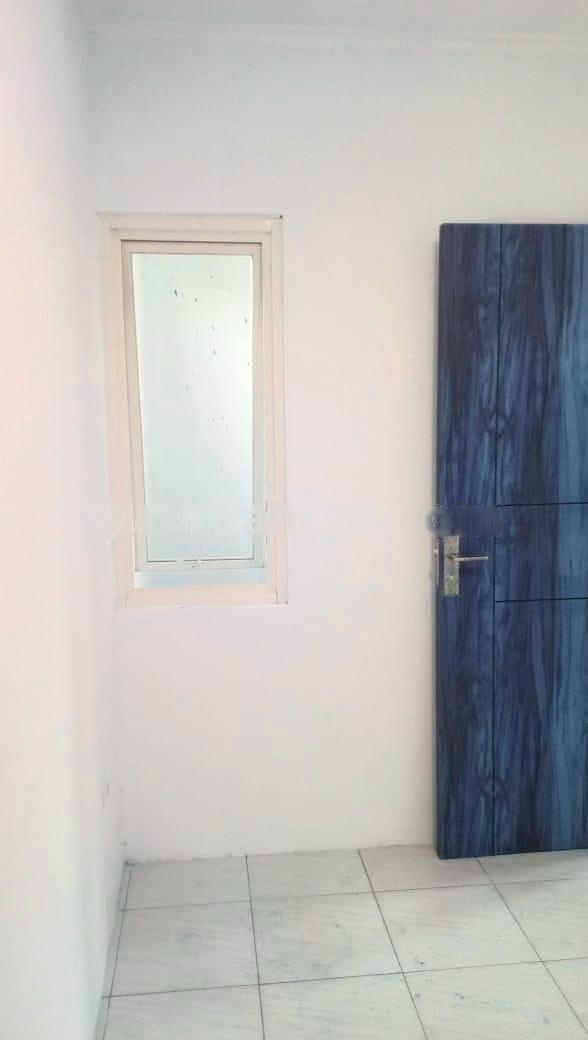
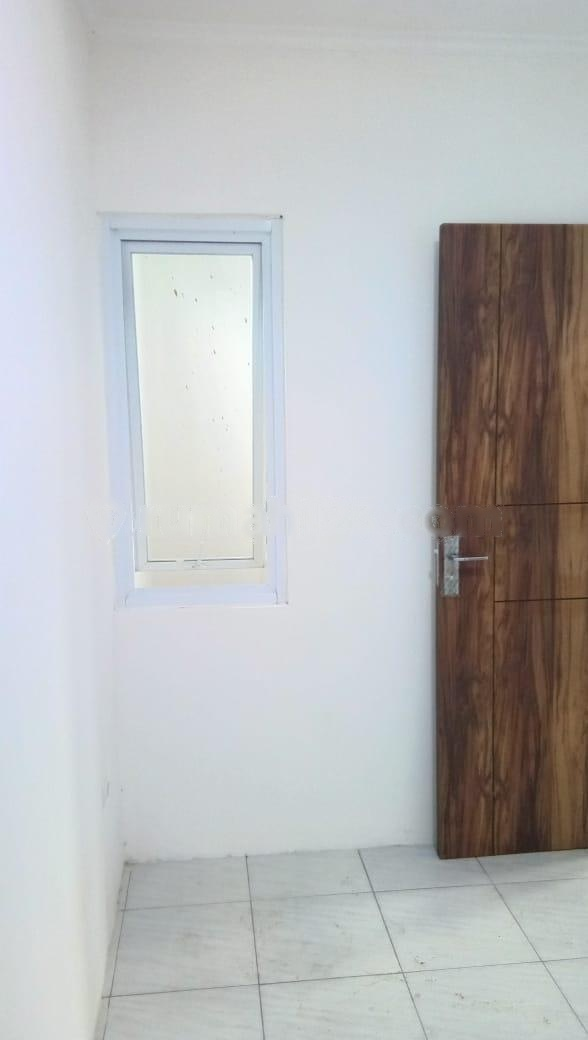
fix color issue

diff --git a/watermark.py b/watermark.py
@@ -28,30 +28,21 @@ def create_resized_mask(img, mask):
 
 def remove_water_mark(img, mask, radius=10, flag=cv.INPAINT_TELEA):
     t1 = time.time()
-    res = cv.inpaint(src=img, inpaintMask=mask, inpaintRadius=radius, flags=flag)
+    result = cv.inpaint(src=img, inpaintMask=mask, inpaintRadius=radius, flags=flag)
     t2 = time.time()
-
     print("it takes {}".format(t2 - t1))
-
-    # dst = cv.inpaint(img, mask, 10, cv.INPAINT_NS)
-    # dst = cv.inpaint(src=img, inpaintMask=inpaintMask, inpaintRadius=3, flags=cv.INPAINT_TELEA)
-
-    # im = Image.fromarray(res)
-    # cv.cvtColor(res, cv.COLOR_BGR2RGB)
-    # im.save("removed_{}".format(file_name))
-
-    rgbImg = cv.cvtColor(res, cv.COLOR_BGR2RGB)
-    return rgbImg
+    return result
 
 
 def main():
     file_name = sys.argv[1]
     mask_name = sys.argv[2]
 
-    img = cv.imread(file_name, 1)
+    img = cv.imread(file_name, cv.IMREAD_UNCHANGED)
     mask = cv.imread(mask_name, 0)
 
     result = remove_water_mark(img=img, mask=mask)
+
     cv.imwrite("removed_{}".format(file_name), result)
 
 
